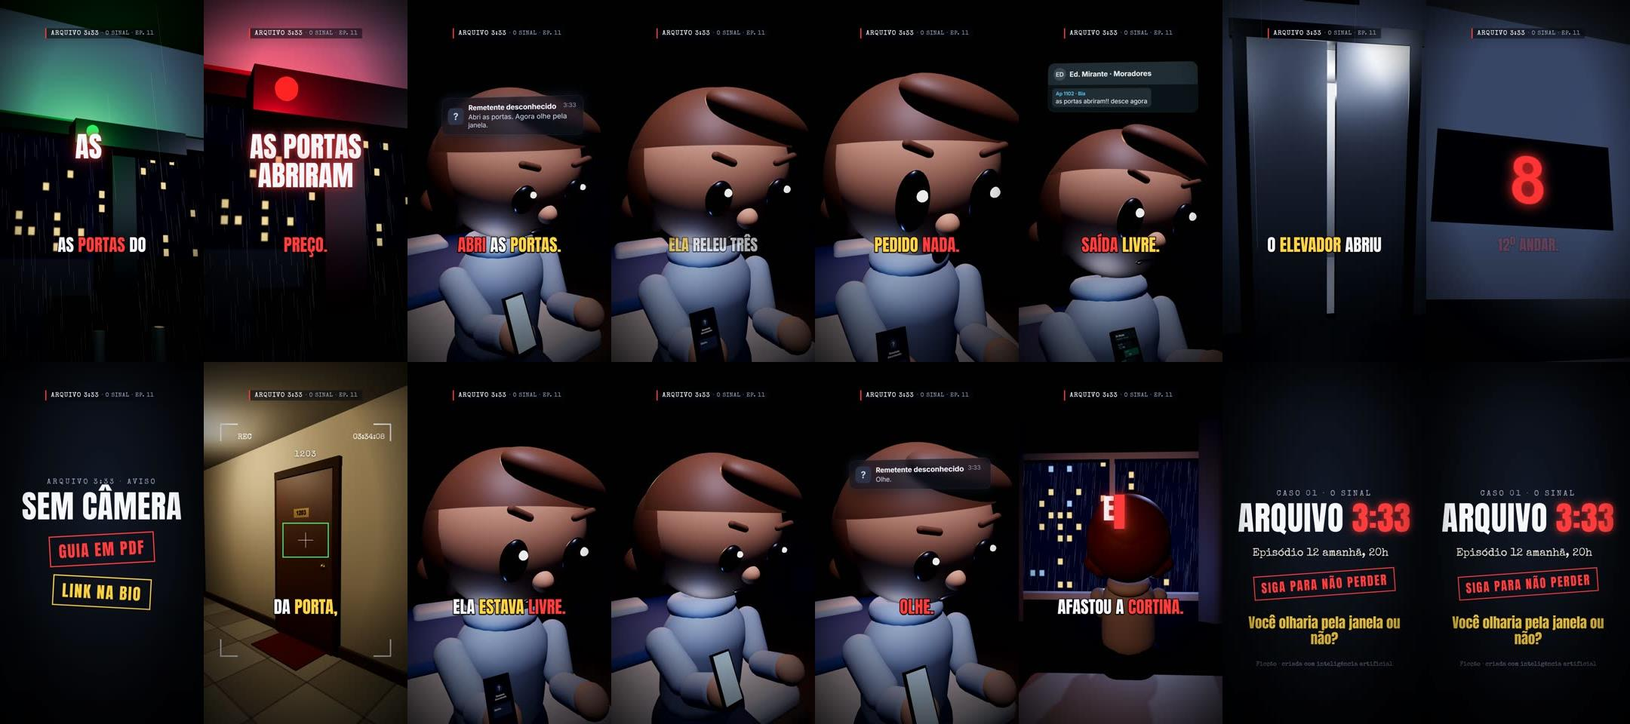
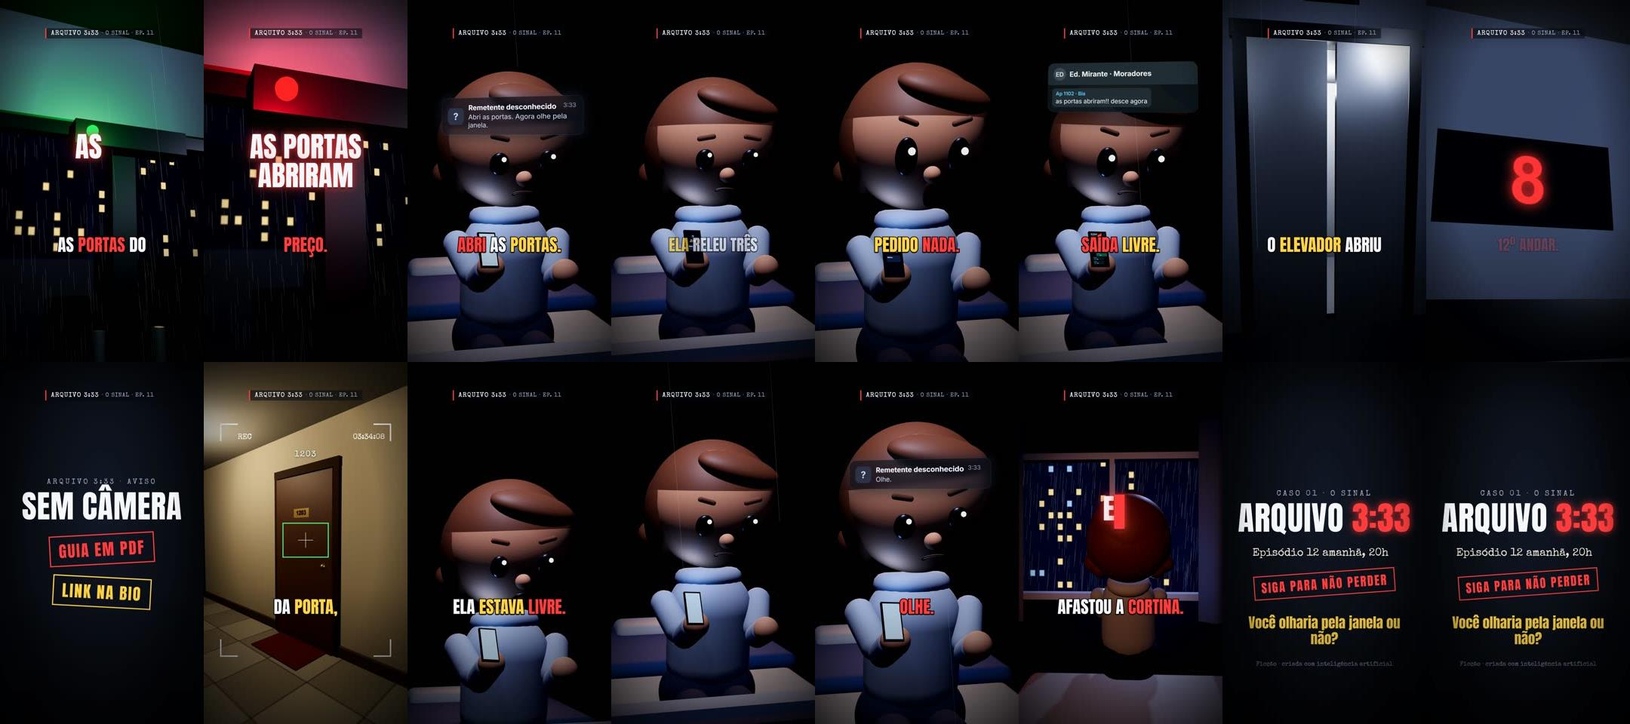
Arquivo 3:33: ep. 11 com closes de meio corpo; piloto Proxima estacao v3 (mais escuro, estacao detalhada, gente palida, som de metro)

Changed region(s): [[0.2481, 0.0625, 0.7755, 0.5], [0.2481, 0.5625, 0.6204, 1.0]]

diff --git a/arquivo-333/src/motor3d/pilotos.ts b/arquivo-333/src/motor3d/pilotos.ts
@@ -29,15 +29,16 @@ const cromo = () => mat("#c4c9d0", { metalness: 0.9, roughness: 0.25 });
 // ================================================================ vagão de metrô
 export class Vagao {
   cena: any; lia: Boneco; segmentos: any[] = []; luzes: any[] = []; argolas: any[] = [];
-  lampadasExt: { m: any; z0: number; lado: number }[] = []; tunelDireito: any; plat: any; postes: any[] = []; gente: { b: Boneco; x0: number }[] = [];
+  lampadasExt: { m: any; z0: number; lado: number }[] = []; tunelDireito: any; plat: any; postes: any[] = []; gente: { b: Boneco; x0: number; k: number; tilt: number }[] = [];
+  estPass: { g: any; c: HTMLCanvasElement; placa: any }[] = []; estNum = 0; luzPlat2: any; tubosPlat: { m: any; k: number }[] = [];
   telaPainel: HTMLCanvasElement; texPainel: any; telaMapa: HTMLCanvasElement; texMapa: any;
   portas: any[] = []; fundoPorta: any; luzPorta: any; luzPlat: any;
   static W = 2.7; static L = 12; static H = 2.35;
 
   constructor() {
-    const cena = new THREE.Scene(); this.cena = cena; cena.background = new THREE.Color("#030508");
+    const cena = new THREE.Scene(); this.cena = cena; cena.background = new THREE.Color("#030508"); cena.fog = new THREE.FogExp2("#04070a", 0.014);
     const { W, L, H } = Vagao;
-    cena.add(new THREE.HemisphereLight("#9fb4cc", "#1c2028", 0.55));
+    cena.add(new THREE.HemisphereLight("#7f93ad", "#14171c", 0.2));
     const piso = caixa(W, 0.06, L, mat("#2f333b", { roughness: 0.5 })); piso.position.y = -0.03; cena.add(piso);
     for (const x of [-0.62, 0.62]) { const f = caixa(0.05, 0.01, L, mat("#d9b53a")); f.position.set(x, 0.005, 0); cena.add(f); }
     const teto = caixa(W, 0.08, L, mat("#d4d8dd")); teto.position.y = H; cena.add(teto);
@@ -45,10 +46,10 @@ export class Vagao {
     for (let k = 0; k < 5; k++) {
       const z = -4.8 + k * 2.4;
       for (const x of [-0.45, 0.45]) {
-        const m = new THREE.MeshBasicMaterial({ color: "#e8f3ff", toneMapped: false });
+        const m = new THREE.MeshBasicMaterial({ color: "#aebdd0", toneMapped: false });
         const l = new THREE.Mesh(new THREE.BoxGeometry(0.16, 0.03, 1.7), m); l.position.set(x, H - 0.05, z); cena.add(l); this.segmentos.push({ m, k });
       }
-      const p = new THREE.PointLight("#cfe6ff", 2.6, 6, 1.4); p.position.set(0, H - 0.3, z); cena.add(p); this.luzes.push(p);
+      const p = new THREE.PointLight("#bcd4ee", 1.5, 6, 1.4); p.position.set(0, H - 0.3, z); cena.add(p); this.luzes.push(p);
     }
     // paredes: base, faixa de cima e pilares entre as janelas (os vãos mostram a plataforma ou o túnel)
     const parede = mat("#aeb4bb"), banco = mat("#52627a"), baseBanco = mat("#1b1f27");
@@ -90,31 +91,73 @@ export class Vagao {
       const m = new THREE.Mesh(new THREE.BoxGeometry(0.1, 0.1, 0.55), new THREE.MeshBasicMaterial({ color: "#ffe9b0", toneMapped: false }));
       m.position.set(lado * (W / 2 + 2.4), 2.0, 0); cena.add(m); this.lampadasExt.push({ m, z0: -7 + k * 1.4 + (lado > 0 ? 0.5 : 0), lado });
     }
+    this.estPass = [-1, 1].map((lado) => {
+      const g = new THREE.Group(), c = tela(512, 200);
+      const luz = new THREE.Mesh(new THREE.BoxGeometry(0.1, 1.7, 9), new THREE.MeshBasicMaterial({ color: "#e6f6ff", toneMapped: false })); luz.position.set(lado * (W / 2 + 2.2), 1.0, 0); g.add(luz);
+      const placa = new THREE.Mesh(new THREE.PlaneGeometry(1.5, 0.59), emissivo(textura(c))); placa.position.set(lado * (W / 2 + 2.05), 2.0, 0); placa.rotation.y = lado > 0 ? -Math.PI / 2 : Math.PI / 2; g.add(placa);
+      g.visible = false; cena.add(g); return { g, c, placa };
+    });
     this.plat = new THREE.Group(); cena.add(this.plat);
     const px = W / 2;
-    const chao = caixa(3.0, 0.5, 44, mat("#8d8f94")); chao.position.set(px + 1.8, -0.26, 0); this.plat.add(chao);
-    const borda = caixa(0.08, 0.01, 44, mat("#e6c23a")); borda.position.set(px + 0.38, 0.005, 0); this.plat.add(borda);
-    const azulejo = caixa(0.1, 3.4, 44, mat("#e6e9ee", { roughness: 0.4 })); azulejo.position.set(px + 3.4, 1.6, 0); this.plat.add(azulejo);
-    this.luzPlat = new THREE.PointLight("#e9f6ff", 9, 9, 1.3); this.luzPlat.position.set(px + 1.6, 2.4, 0); this.plat.add(this.luzPlat);
-    for (const z of [-4.2, 0.2, 4.4]) {
-      const c = tela(512, 200), g = c.getContext("2d")!; g.fillStyle = "#4a5058"; g.fillRect(0, 0, 512, 200);
-      g.fillStyle = "#fff"; g.font = "bold 38px Arial"; g.textAlign = "center"; g.fillText("ESTAÇÃO", 256, 50); g.font = "bold 130px Arial"; g.fillText("13", 256, 168);
-      const s = new THREE.Mesh(new THREE.PlaneGeometry(1.5, 0.59), emissivo(textura(c))); s.position.set(px + 3.33, 2.2, z); s.rotation.y = -Math.PI / 2; this.plat.add(s);
+    const chao = caixa(3.0, 0.5, 44, mat("#4d5054")); chao.position.set(px + 1.8, -0.26, 0); this.plat.add(chao);
+    const borda = caixa(0.14, 0.012, 44, mat("#b9961f")); borda.position.set(px + 0.42, 0.006, 0); this.plat.add(borda);
+    for (let k = 0; k < 40; k++) { const t = caixa(0.14, 0.01, 0.6, mat("#7a6216")); t.position.set(px + 0.42, 0.012, -21 + k * 1.1); this.plat.add(t); }
+    const azulejo = caixa(0.1, 3.4, 44, new THREE.MeshStandardMaterial({ map: this.texturaAzulejo(), roughness: 0.55 })); azulejo.position.set(px + 3.4, 1.6, 0); this.plat.add(azulejo);
+    const tetoP = caixa(3.6, 0.1, 44, mat("#101214")); tetoP.position.set(px + 1.8, 3.25, 0); this.plat.add(tetoP);
+    this.luzPlat = new THREE.PointLight("#a8e8c8", 9, 11, 1.3); this.luzPlat.position.set(px + 1.6, 2.6, 0.5); this.plat.add(this.luzPlat);
+    this.luzPlat2 = new THREE.PointLight("#ff2a2a", 2.2, 7, 1.6); this.luzPlat2.position.set(px + 2.6, 1.2, -4.5); this.plat.add(this.luzPlat2);
+    for (let k = 0; k < 6; k++) { const m = new THREE.MeshBasicMaterial({ color: "#bfe9d6", toneMapped: false }); const t = new THREE.Mesh(new THREE.BoxGeometry(0.12, 0.05, 1.5), m); t.position.set(px + 1.8, 3.15, -9 + k * 3.6); this.plat.add(t); this.tubosPlat.push({ m, k }); }
+    // colunas, bancos, relógio parado em 3:33, cartazes e as placas vermelhas da estação 13
+    for (const z of [-7.5, -2.4, 3.2, 8]) { const c = caixa(0.42, 3.2, 0.42, mat("#2f3438")); c.position.set(px + 2.55, 1.6, z); this.plat.add(c); }
+    for (const z of [-5, 5.6]) {
+      const bk = caixa(0.5, 0.07, 1.7, mat("#2b2d30")); bk.position.set(px + 3.05, 0.45, z); this.plat.add(bk);
+      for (const dz of [-0.7, 0.7]) { const pe = caixa(0.4, 0.4, 0.08, mat("#1b1c1e")); pe.position.set(px + 3.05, 0.2, z + dz); this.plat.add(pe); }
     }
-    const elenco = ["bia", "rafa", "alvaro", "cida", "marina", "caio", "locutor", "bia", "rafa", "alvaro"];
-    elenco.forEach((nome, k) => {
-      const b = new Boneco(APARENCIAS[nome]), x0 = px + 1.0 + (k % 3) * 0.5, z = -4.6 + k * 1.0 + (k % 2 ? 0.2 : -0.1);
-      b.raiz.position.set(x0, 0, z); b.raiz.rotation.set(0, -Math.PI / 2, 0);
-      b.posar({ ...POSES.em_pe(k), olhos: 1.25, sobrancelha: [0.6, 0, -0.5][k % 3], boca: "neutra", cabeca: [0, 0, 0] });
-      this.plat.add(b.raiz); this.gente.push({ b, x0 });
+    const rc = tela(256, 256), gr = rc.getContext("2d")!; gr.fillStyle = "#e9e6dd"; gr.beginPath(); gr.arc(128, 128, 124, 0, Math.PI * 2); gr.fill(); gr.strokeStyle = "#111"; gr.lineWidth = 8; gr.stroke();
+    for (let k = 0; k < 12; k++) { const a = (k / 12) * Math.PI * 2; gr.beginPath(); gr.moveTo(128 + Math.sin(a) * 104, 128 - Math.cos(a) * 104); gr.lineTo(128 + Math.sin(a) * 118, 128 - Math.cos(a) * 118); gr.lineWidth = 5; gr.stroke(); }
+    gr.lineCap = "round"; gr.lineWidth = 9; gr.beginPath(); gr.moveTo(128, 128); gr.lineTo(128 + Math.sin(Math.PI * 1.55) * 60, 128 - Math.cos(Math.PI * 1.55) * 60); gr.stroke(); // hora (perto do 3)
+    gr.lineWidth = 6; gr.beginPath(); gr.moveTo(128, 128); gr.lineTo(128 + Math.sin(Math.PI * 1.1) * 92, 128 - Math.cos(Math.PI * 1.1) * 92); gr.stroke();
+    const relogio = new THREE.Mesh(new THREE.CircleGeometry(0.34, 40), emissivo(textura(rc))); relogio.position.set(px + 2.33, 2.4, -2.4); relogio.rotation.y = -Math.PI / 2; this.plat.add(relogio);
+    ["NÃO DESÇA", "ELES ESPERAM", "VOCÊ JÁ ESTEVE AQUI"].forEach((txt, k) => {
+      const c = tela(256, 400), g = c.getContext("2d")!; g.fillStyle = "#17110f"; g.fillRect(0, 0, 256, 400);
+      g.fillStyle = "#2a1c18"; g.beginPath(); g.ellipse(128, 130, 46, 56, 0, 0, Math.PI * 2); g.fill(); g.fillRect(70, 180, 116, 120);
+      g.fillStyle = "#b8281e"; g.font = "bold 34px Arial"; g.textAlign = "center"; txt.split(" ").forEach((w, i, a) => g.fillText(w, 128, 330 + (i - (a.length - 1) / 2) * 40));
+      const p = new THREE.Mesh(new THREE.PlaneGeometry(0.8, 1.25), emissivo(textura(c))); p.position.set(px + 3.33, 1.5, [-6.2, -0.9, 4.4][k]); p.rotation.y = -Math.PI / 2; this.plat.add(p);
+    });
+    for (const z of [-4.2, 0.2, 4.4]) {
+      const c = tela(512, 200), g = c.getContext("2d")!; g.fillStyle = "#1a0c0c"; g.fillRect(0, 0, 512, 200);
+      g.fillStyle = "#ff4a3a"; g.shadowColor = "#ff3b2b"; g.shadowBlur = 30; g.textAlign = "center"; g.font = "bold 38px Arial"; g.fillText("ESTAÇÃO", 256, 50); g.font = "bold 130px Arial"; g.fillText("13", 256, 168);
+      const sg = new THREE.Mesh(new THREE.PlaneGeometry(1.5, 0.59), emissivo(textura(c))); sg.position.set(px + 3.33, 2.2, z); sg.rotation.y = -Math.PI / 2; this.plat.add(sg);
+    }
+    // a gente da plataforma: pálida, parada, olhando o trem, cabeça torta; alguns sorriem demais, um é alto demais
+    const pal = (pele: string, roupa: string, cabelo: string, extra: Record<string, unknown> = {}) => ({ pele, cabelo, roupa, calca: "#16181c", tenis: "#0e0e10", penteado: "curto" as const, capuz: false, ...extra });
+    const elenco = [pal("#c4cbd0", "#2c3138", "#15110e"), pal("#adb5ba", "#3a2f33", "#0f0f10", { penteado: "chanel" }), pal("#d1d6da", "#26303a", "#2a2a2a", { oculos: true }), pal("#b5bcc1", "#33392f", "#1a1411", { penteado: "coque" }), pal("#c9cfd3", "#40343a", "#0d0d0d"),
+      pal("#a9b1b6", "#2a2f35", "#2f2f2f", { altura: 1.38 }), pal("#bfc6ca", "#352c30", "#111111", { penteado: "chanel" }), pal("#cdd2d6", "#2d3338", "#1b1b1b", { oculos: true }), pal("#b0b8bd", "#38343a", "#0e0e0e"), pal("#c1c8cc", "#2b3036", "#141010", { penteado: "coque" })];
+    elenco.forEach((ap, k) => {
+      const bn = new Boneco(ap as any), x0 = px + 0.95 + (k % 3) * 0.55, z = -4.6 + k * 1.0 + (k % 2 ? 0.2 : -0.1), tilt = (k % 2 ? 1 : -1) * (5 + (k % 4) * 3);
+      bn.raiz.position.set(x0, 0, z); bn.raiz.rotation.set(0, -Math.PI / 2, 0);
+      bn.posar({ ...POSES.em_pe(k), olhos: 1.5, sobrancelha: [-0.3, 0.8, -0.7][k % 3], boca: k % 3 === 0 ? "sorriso" : "neutra", cabeca: [0, 0, tilt] });
+      this.plat.add(bn.raiz); this.gente.push({ b: bn, x0, k, tilt });
     });
     this.lia = new Boneco(APARENCIAS.lia); cena.add(this.lia.raiz);
     this.padrao();
   }
 
+  private texturaAzulejo() {
+    const c = tela(256, 512), g = c.getContext("2d")!, r = sorteio(21);
+    g.fillStyle = "#46544f"; g.fillRect(0, 0, 256, 512);
+    for (let y = 0; y < 16; y++) for (let x = 0; x < 8; x++) { const v = 78 + Math.floor(r() * 26); g.fillStyle = `rgb(${v - 10},${v + 8},${v})`; g.fillRect(x * 32 + 1, y * 32 + 1, 30, 30); }
+    for (let k = 0; k < 40; k++) { g.fillStyle = `rgba(10,8,6,${0.08 + r() * 0.2})`; g.fillRect(r() * 256, r() * 300, 4 + r() * 10, 40 + r() * 200); }
+    g.fillStyle = "rgba(90,20,16,0.5)"; for (let k = 0; k < 6; k++) { g.fillRect(40 + r() * 170, 100 + r() * 200, 3, 30 + r() * 90); }
+    const t = new THREE.CanvasTexture(c); t.colorSpace = THREE.SRGBColorSpace; t.wrapS = t.wrapT = THREE.RepeatWrapping; t.repeat.set(10, 2); return t;
+  }
+  private desenhaEst(c: HTMLCanvasElement, placa: any, n: number) {
+    const g = c.getContext("2d")!; g.fillStyle = "#3a4048"; g.fillRect(0, 0, 512, 200); g.fillStyle = "#fff"; g.textAlign = "center"; g.font = "bold 36px Arial"; g.fillText("ESTAÇÃO", 256, 48); g.font = "bold 130px Arial"; g.fillText(String(n), 256, 168);
+    placa.material.map.needsUpdate = true;
+  }
   painelTexto(linha1: string, linha2: string, cor = "#ffb000") {
     const g = this.telaPainel.getContext("2d")!;
-    g.fillStyle = "#120a02"; g.fillRect(0, 0, 512, 128);
+    g.fillStyle = "#120a02"; g.fillRect(0, 0, 512, 128); g.strokeStyle = cor + "99"; g.lineWidth = 4; g.strokeRect(5, 5, 502, 118);
     g.textAlign = "center"; g.textBaseline = "middle"; g.fillStyle = cor; g.shadowColor = cor; g.shadowBlur = 14;
     g.font = "bold 34px 'Courier New', monospace"; g.fillText(linha1, 256, 28);
     g.font = "bold 78px 'Courier New', monospace"; g.fillText(linha2, 256, 86);
@@ -143,7 +186,10 @@ export class Vagao {
   /** A gente da plataforma dá um passo em direção ao trem (p de 0 a 1). */
   passo(p: number) { for (const { b, x0 } of this.gente) b.raiz.position.x = x0 - 0.45 * p; }
   /** `offset`: quanto o trem andou (metros); `plat`: 0 = túnel, 1 = parado na plataforma. */
-  mover(offset: number, plat: number) {
+  mover(offset: number, plat: number, est = 0) {
+    const ativa = est > 0 && plat <= 0.001;
+    for (const e of this.estPass) { e.g.visible = ativa; if (ativa) { e.g.position.z = offset - 25; if (this.estNum !== est) this.desenhaEst(e.c, e.placa, est); } }
+    if (ativa) this.estNum = est;
     for (const { m, z0, lado } of this.lampadasExt) {
       m.position.z = (((z0 - offset) % 14) + 14) % 14 - 7;
       m.visible = !(lado > 0 && plat > 0.001);
@@ -157,12 +203,16 @@ export class Vagao {
   }
   /** Luzes do teto: `queda` 0 normal, 1 apagadas; o pisca é uma função do tempo. */
   atualizar(t: number, pisca = 0.5) {
-    const baixo = Math.sin(t * 23) > 0.55 && Math.sin(t * 3.1 + 1) > 1 - 2 * pisca;
+    const baixo = Math.sin(t * 23) > 0.3 && Math.sin(t * 3.1 + 1) > 1 - 2 * pisca;
     for (let k = 0; k < 5; k++) {
-      const apaga = (k === 2 && baixo) || (k === 3 && Math.sin(t * 17 + 2) > 0.8 && pisca > 0.3);
-      this.luzes[k].intensity = apaga ? 0.2 : 2.6;
-      for (const s of this.segmentos.filter((x) => x.k === k)) s.m.color.set(apaga ? "#3a3f48" : "#e8f3ff");
+      const apaga = (k === 2 && baixo) || (k === 3 && Math.sin(t * 17 + 2) > 0.7 && pisca > 0.3) || (k === 1 && Math.sin(t * 13 + 4) > 0.88);
+      this.luzes[k].intensity = apaga ? 0.08 : 1.5;
+      for (const s of this.segmentos.filter((x) => x.k === k)) s.m.color.set(apaga ? "#3a3f48" : "#aebdd0");
     }
+    for (const g of this.gente) { g.b.raiz.rotation.y = -Math.PI / 2 + Math.sin(t * 0.6 + g.k) * 0.06; g.b.cabeca.rotation.z = ((g.tilt + Math.sin(t * 0.8 + g.k * 1.7) * 3) * Math.PI) / 180; }
+    const piscaP = Math.sin(t * 19 + 1) > 0.6 && Math.sin(t * 2.3) > 0.2;
+    this.luzPlat.intensity = piscaP ? 2 : 9;
+    for (const x of this.tubosPlat) x.m.color.set(x.k === 2 && piscaP ? "#26302c" : "#bfe9d6");
     this.argolas.forEach((g, i) => { g.rotation.z = Math.sin(t * 1.6 + i) * 0.04; g.rotation.x = Math.sin(t * 1.2 + i * 0.7) * 0.03; });
   }
   padrao() {
@@ -389,18 +439,18 @@ export const PLANOS_PILOTOS: Record<string, Plano> = {
   // ---------------- piloto 1: Próxima estação
   vagao_plataforma: (s, dur, m) => {
     const p = suave(s / dur), v = m.vagao;
-    v.mover(0, 1); v.limpa(false); v.passo(0); v.painelTexto("ESTAÇÃO", "13", "#ff3b3b"); v.atualizar(s, 0.5);
-    return { cena: "vagao", pos: mix([-0.9, 1.3, 0.0], [-0.5, 1.3, 0.3], p), alvo: [2.8, 1.55, 0.4], fov: 56 };
+    v.mover(0, 1); v.limpa(true); v.passo(0); v.painelTexto("ESTAÇÃO", "13", "#ff3b3b"); v.atualizar(s, 0.5);
+    return { cena: "vagao", pos: mix([-1.05, 1.25, 1.0], [-0.8, 1.3, 1.0], p), alvo: [2.8, 1.45, 0.9], fov: 74, rolar: 0.05 - 0.03 * p };
   },
   vagao_lia: (s, dur, m) => {
     const p = suave(s / dur), v = m.vagao;
     liaSenta(m, LIA_BANCO(s, { cabeca: [20 - 20 * p, 10 - 10 * p, 5 - 5 * p], olhos: 0.25 + 0.6 * p, sobrancelha: -0.7 * p, boca: "neutra" }));
-    v.mover(ANDA(s) * 2.2, 0); v.limpa(false); v.atualizar(s, 0.5);
+    v.mover(ANDA(s) * 2.2, 0, 11); v.limpa(true); v.atualizar(s, 0.5);
     const c = cab(v.lia);
     return { cena: "vagao", pos: mix([c[0] + 1.4, c[1] + 0.1, c[2] + 2.6], [c[0] + 1.2, c[1] + 0.05, c[2] + 2.25], p), alvo: [c[0] - 0.05, c[1] - 0.15, c[2]], fov: 38 };
   },
   vagao_painel: (s, dur, m) => {
-    const v = m.vagao; v.mover(ANDA(s) * 2.2, 0); v.limpa(false);
+    const v = m.vagao; v.mover(ANDA(s) * 2.2, 0, 12); v.limpa(false);
     v.painelTexto("PRÓXIMA ESTAÇÃO", s > dur * 0.35 ? "13" : "12", s > dur * 0.35 ? "#ff3b3b" : "#ffb000"); v.atualizar(s, 0.8);
     return { cena: "vagao", pos: mix([0.6, 1.75, -3.9], [0.62, 1.85, -4.3], suave(s / dur)), alvo: [0.62, 2.05, -6], fov: 58 };
   },
@@ -412,26 +462,26 @@ export const PLANOS_PILOTOS: Record<string, Plano> = {
   vagao_lia_choro: (s, dur, m) => {
     const p = suave(s / dur), v = m.vagao;
     liaSenta(m, LIA_BANCO(s, { cabeca: [24 + 4 * p, -6, -3], olhos: 0.75, sobrancelha: 1, boca: "triste" }));
-    v.mover(ANDA(s) * 2.2, 0); v.limpa(false); v.atualizar(s, 0.6);
+    v.mover(ANDA(s) * 2.2, 0); v.limpa(true); v.atualizar(s, 0.6);
     const c = cab(v.lia);
     return { cena: "vagao", pos: mix([c[0] + 1.5, c[1] + 0.1, c[2] + 2.5], [c[0] + 1.3, c[1] + 0.05, c[2] + 2.2], p), alvo: [c[0] - 0.05, c[1] - 0.2, c[2]], fov: 38 };
   },
   vagao_janela: (s, dur, m) => {
     const p = suave(s / dur), v = m.vagao;
-    v.mover(0, 1); v.limpa(false); v.passo(0); v.painelTexto("ESTAÇÃO", "13", "#ff3b3b"); v.atualizar(s, 0.9);
-    return { cena: "vagao", pos: mix([-0.3, 1.45, 0.2], [0.2, 1.5, 0.45], p), alvo: [2.9, 1.5, 0.9], fov: 40 };
+    v.mover(0, 1); v.limpa(true); v.passo(0); v.painelTexto("ESTAÇÃO", "13", "#ff3b3b"); v.atualizar(s, 0.9);
+    return { cena: "vagao", pos: mix([-0.2, 1.05, 1.0], [0.25, 1.15, 1.0], p), alvo: [2.9, 1.65, 1.1], fov: 42, rolar: -0.04 };
   },
   vagao_porta: (s, dur, m) => {
     const p = suave(s / (dur * 0.7)), v = m.vagao, l = v.lia;
     l.raiz.visible = true; l.raiz.position.set(0, 0, -1.2); l.raiz.rotation.set(0, Math.PI, 0); l.posar({ ...POSES.em_pe(s), cabeca: [0, 0, 0] });
-    v.mover(0, 1); v.limpa(false); v.porta(p); v.passo(suave(s / dur)); v.painelTexto("PORTAS ABERTAS", "13", "#ff3b3b"); v.atualizar(s, 0.9);
+    v.mover(0, 1); v.limpa(true); v.porta(p); v.passo(suave(s / dur)); v.painelTexto("PORTAS ABERTAS", "13", "#ff3b3b"); v.atualizar(s, 0.9);
     return { cena: "vagao", pos: mix([0.3, 1.2, 3.8], [0.1, 1.25, 2.1], suave(s / dur)), alvo: [0, 1.1, -6], fov: 58 };
   },
   vagao_lia_det: (s, dur, m) => {
     const p = suave(s / dur), v = m.vagao, l = v.lia;
     l.raiz.visible = true; l.raiz.position.set(0, 0, -1.6); l.raiz.rotation.set(0, Math.PI, 0);
     l.posar({ ...POSES.em_pe(s), olhos: 1.0, sobrancelha: -1, boca: "neutra", cabeca: [-6, 0, 0] });
-    v.mover(0, 1); v.limpa(false); v.porta(1); v.passo(1); v.atualizar(s, 0.9);
+    v.mover(0, 1); v.limpa(true); v.porta(1); v.passo(1); v.atualizar(s, 0.9);
     return { cena: "vagao", pos: mix([0.0, 1.25, -4.4], [0.0, 1.2, -3.9], p), alvo: [0, 1.05, -1.6], fov: 40 };
   },
 

diff --git a/arquivo-333/src/motor3d/planos.ts b/arquivo-333/src/motor3d/planos.ts
@@ -45,6 +45,12 @@ function marinaNoQuarto(m: Mundo, s: number, pose: keyof typeof POSES, extra: Re
 function cabeca(m: Mundo): V3 { const v = new THREE.Vector3(); m.quarto.marina.cabeca.getWorldPosition(v); return [v.x, v.y, v.z]; }
 /** Luz dos closes: o rosto sem estourar (menos lua e celular) e o cabelo aparecendo (mais recorte da porta), como no vídeo-modelo. Chamar depois do atualizar. */
 function luzClose(m: Mundo) { const q = m.quarto; q.luaLuz.intensity = 1.5; q.recorte.intensity = 14; q.luzCelular.intensity = 0.06; q.ceuLuz.intensity = 0.8; q.luzCabelo.intensity = 7; }
+/** Câmera de meio corpo, de três quartos (lado = 1 pela direita, -1 pela esquerda): cabeça inteira com folga e o tronco no quadro. */
+function camMeio(m: Mundo, p: number, lado = 1, baixo = 0): { pos: V3; alvo: V3 } {
+  // de fora da janela (3,5 m de distância), pelo vão de um dos lados da divisória: meio corpo de frente, cabeça inteira com folga
+  const c = cabeca(m);
+  return { pos: mix([0.95 * lado, c[1] + 0.02 - baixo, -4.5], [0.8 * lado, c[1] - baixo, -4.1], p), alvo: [0.2, c[1] - 0.18 + baixo * 0.7, c[2]] };
+}
 function desenhaGrupo() {
   const c = document.createElement("canvas"); c.width = 256; c.height = 512; const g = c.getContext("2d")!;
   g.fillStyle = "#0b141a"; g.fillRect(0, 0, 256, 512); g.fillStyle = "#1f2c34"; g.fillRect(0, 0, 256, 64);
@@ -169,7 +175,7 @@ export const PLANOS: Record<string, Plano> = {
     marinaNoQuarto(m, s, "sentada_celular", { olhos: 1.2, sobrancelha: 0.9, cabeca: [16, -4 * p, 0] }); telaCom(m, "grupo");
     m.quarto.atualizar(s); luzClose(m);
     m.quarto.luzCelular.intensity = 0.06 + 0.3 * Math.pow(Math.max(0, Math.sin(s * 11)), 8);
-    const c = cabeca(m); return { cena: "quarto", pos: mix([c[0] + 0.6, c[1] - 0.14, c[2] - 0.92], [c[0] + 0.5, c[1] - 0.12, c[2] - 0.88], p), alvo: [c[0], c[1] + 0.1, c[2]], fov: 74 };
+    return { cena: "quarto", ...camMeio(m, p), fov: 34 };
   },
   /** Ela fecha a cortina (vista de trás); o quarto escurece. */
   cortina_fecha: (s, dur, m) => {
@@ -354,7 +360,7 @@ export const PLANOS: Record<string, Plano> = {
     const p = suave(s / dur);
     marinaNoQuarto(m, s, "sentada_celular", { olhos: 0.9, sobrancelha: 0.8, cabeca: [16, 0, 8 * p] }); telaCom(m, "luz");
     m.quarto.atualizar(s); luzClose(m);
-    const c = cabeca(m); return { cena: "quarto", pos: mix([c[0] + 0.6, c[1] + 0.05, c[2] - 0.92], [c[0] + 0.48, c[1] + 0.05, c[2] - 0.88], p), alvo: [c[0], c[1] - 0.06, c[2]], fov: 72 };
+    return { cena: "quarto", ...camMeio(m, p), fov: 32 };
   },
   rosto_mensagem: (s, dur, m) => {
     const p = suave(s / dur);
@@ -387,8 +393,15 @@ export const PLANOS: Record<string, Plano> = {
   },
   rosto_medo: (s, dur, m) => {
     const p = suave(s / (dur * 0.6));
-    marinaNoQuarto(m, s, "sentada_celular", { olhos: 1 + 0.55 * p, sobrancelha: 1, boca: p > 0.5 ? "medo" : "neutra", cabeca: [12, 0, 0] }); telaCom(m, "nome");
+    marinaNoQuarto(m, s, "sentada_celular", { olhos: 0.85 + 0.5 * p, sobrancelha: p > 0.6 ? 1 : -0.5, boca: p > 0.85 ? "medo" : "neutra", cabeca: [12, 0, 0] }); telaCom(m, "nome");
     m.quarto.atualizar(s); luzClose(m);
-    const c = cabeca(m); return { cena: "quarto", pos: mix([c[0] + 0.42, c[1] + 0.05, c[2] - 0.92], [c[0] + 0.28, c[1] + 0.05, c[2] - 0.86], suave(s / dur)), alvo: [c[0], c[1] - 0.04, c[2]], fov: 72 };
+    return { cena: "quarto", ...camMeio(m, suave(s / dur)), fov: 32 };
+  },
+  /** Dúvida e tristeza contida (para variar a expressão), pela esquerda. */
+  rosto_duvida: (s, dur, m) => {
+    const p = suave(s / dur);
+    marinaNoQuarto(m, s, "sentada_celular", { olhos: 0.9, sobrancelha: 0.7, boca: "triste", cabeca: [20 + 4 * p, 0, 4] }); telaCom(m, "luz");
+    m.quarto.atualizar(s); luzClose(m);
+    return { cena: "quarto", ...camMeio(m, p, 1, 0.28), fov: 32 };
   },
 };

diff --git a/arquivo-333/src/motor3d/boneco.ts b/arquivo-333/src/motor3d/boneco.ts
@@ -17,7 +17,7 @@ export type Pose = {
   pernaE?: [number, number, number]; pernaD?: [number, number, number];
   joelhoE?: number; joelhoD?: number;
   olhos?: number;        // 1 = normal, 1.4 = arregalados, 0.2 = quase fechados
-  boca?: "neutra" | "aberta" | "medo" | "triste";
+  boca?: "neutra" | "aberta" | "medo" | "triste" | "sorriso";
   sobrancelha?: number;  // -1 brava, 0 neutra, 1 preocupada
   respira?: number;      // tempo, para o peito subir e descer
 };
@@ -140,9 +140,9 @@ export class Boneco {
     this.sobE.rotation.z = Math.PI / 2 + sb * 0.35; this.sobD.rotation.z = Math.PI / 2 - sb * 0.35;
     this.sobE.position.y = this.sobD.position.y = 0.13 + Math.max(0, sb) * 0.02 + (o > 1.1 ? 0.02 : 0);
     const b = p.boca ?? "neutra";
-    this.boca.visible = b === "neutra" || b === "triste";
-    this.boca.rotation.z = 0; this.boca.scale.set(1, b === "neutra" ? 0.25 : 1, 1);
-    this.boca.position.y = b === "triste" ? -0.15 : -0.12;
+    this.boca.visible = b === "neutra" || b === "triste" || b === "sorriso";
+    this.boca.rotation.z = b === "sorriso" ? Math.PI : 0; this.boca.scale.set(b === "sorriso" ? 1.7 : 1, b === "neutra" ? 0.25 : 1, 1);
+    this.boca.position.y = b === "triste" ? -0.15 : b === "sorriso" ? -0.1 : -0.12;
     this.bocaAberta.visible = b === "aberta" || b === "medo";
     this.bocaAberta.scale.set(b === "medo" ? 0.8 : 0.9, b === "medo" ? 1.6 : 1.1, 0.4);
     const r = p.respira ?? 0;

diff --git a/.claude/skills/hoje-sumiu/SKILL.md b/.claude/skills/hoje-sumiu/SKILL.md
@@ -46,7 +46,14 @@ Pasta `Documents\Origem Digital\4-midia\posts-automaticos\hoje-sumiu` (Remotion 
 - **Câmera:** um voo só, sem corte seco. A cada 2 a 4 s, algo muda. Em todo plano com personagem, a cabeça fica por volta de y = 750 px, acima da legenda.
 - **Cabeçalho fixo:** "DIA N" + "N COISAS SUMIRAM · SÓ 1 PESSOA LEMBRA".
 - **Legenda-adesivo:** até 3 palavras, palavra entra quando é dita, em y ≈ 1205 (fora da área dos botões das redes). Azul nas palavras fortes; a coisa que sumiu fica cinza depois da virada.
-- **Fim:** "O QUE SOME AMANHÃ?" com 3 comentários de exemplo (avisar que são exemplo), "Ficção criada com IA" e "COMENTA AQUI ⬇".
+- **Fim:** "O QUE SOME AMANHÃ?" com as 5 opções de voto legíveis (ver a seção "Voto com 5 opções" abaixo), "Ficção criada com IA" e "COMENTA AQUI ⬇".
+
+## Voto com 5 opções (pedido do Vito, 05/11/2026, vale do próximo vídeo)
+- **Pergunta final:** o narrador fala "Comente 1 para X, 2 para Y, 3 para Z, 4 para W ou 5 para K" e o cartão final mostra as 5 opções, legíveis, com número em destaque.
+- **Escolha as 5 opções antes de publicar.** Temas bem abrangentes, para o público se envolver: algo do cotidiano, da natureza, da tecnologia, da comida e da memória/afeto. Nada de governo, pessoa, marca, religião, doença ou criança (as mesmas regras de "Proibido").
+- **Contagem:** a opção mais comentada vence. Conte os comentários que escolhem cada número (não as curtidas do comentário). Se um número não pega, conte pela palavra-chave da opção. Comentário que vota em mais de uma opção não conta. Mostre a contagem ao Vito antes de produzir o dia seguinte.
+- **Aprovação antes de publicar:** mostre o vídeo pronto no chat do Vito e espere o "aprovado". Sem aprovação, não publica.
+- **Abertura:** o sumiço tem que aparecer nos primeiros 3 segundos. Vídeos mais curtos (o alvo continua 55 a 65 s, mas corte o que não ajuda a história).
 
 ## Voz (a primeira queixa do Vito foi aqui)
 - **Modelo:** `elevenlabs_v4`, voz Mark `27c04473-84a9-4b60-a41f-c8e8458bd4f1` (`voice_type: "preset"`), estabilidade 0.5, similaridade 0.75, um turno por fala, e `"velocidade": 1` no episódio: sem aceleração. O Vito escolheu essa voz em 01/11/2026 por ser natural e tranquila. A Gideon, do Dia 1, parecia demais com o Arquivo 3:33: não volte a usar.
@@ -62,8 +69,10 @@ Pasta `Documents\Origem Digital\4-midia\posts-automaticos\hoje-sumiu` (Remotion 
 ## Crédito de quem escolheu (pedido do Vito, 01/11/2026)
 Depois de "Do mundo inteiro. Para sempre.", um cartão mostra o @ de quem escreveu, o comentário e as curtidas, conferidas no dia. A voz diz que foi o mais curtido. Se houve veto, diga "o mais curtido que valia", porque outro comentário teve mais curtidas. O @ fica só na tela e na legenda, nunca na voz: nome de conta é pronúncia arriscada.
 
-## "Comente GUIA" (mudança aprovada pelo Vito em 04/11/2026, vale do Dia 5 em diante)
-A divulgação do meio do vídeo troca "link na bio" por **"Comente GUIA"**. Fala (menos de 4 s, Mark): "Feito sem câmera. Comente GUIA e eu te mando." Cartão (`divulgacao`): `titulo` "SEM CÂMERA", `sub` "COMENTE GUIA", sem `chamada` de link. Legenda e descrição: "Quer saber como é feito? Comente GUIA." e, como apoio, "link na bio" (o link fica no perfil). A pergunta final de voto continua em todos os vídeos e é a chamada principal: são duas chamadas diferentes, a de votar e a de comentar GUIA. O Dia 4 já está no ar com "link na bio" e não muda.
+## "Comente GUIA" (mudança aprovada pelo Vito em 04/11/2026; **AINDA NÃO USAR**, ver a trava de 05/11/2026)
+**Trava de 05/11/2026:** o aviso de comentários do Instagram estava desligado na Meta. O chat Origem Digital ligou e vai testar com o Vito. Até a mensagem "liberado" vir do chat Origem Digital: **nada de "Comente GUIA" e nada de "link na bio"** na fala, no cartão, na legenda nem na descrição. Não há divulgação do guia nos vídeos até lá, salvo se o Vito disser o contrário. Quando o aviso chegar, volte a esta seção.
+
+A divulgação do meio do vídeo troca "link na bio" por **"Comente GUIA"** (quando liberado). Fala (menos de 4 s, Mark): "Feito sem câmera. Comente GUIA e eu te mando." Cartão (`divulgacao`): `titulo` "SEM CÂMERA", `sub` "COMENTE GUIA", sem `chamada` de link. Legenda e descrição: "Quer saber como é feito? Comente GUIA." e, como apoio, "link na bio" (o link fica no perfil). A pergunta final de voto continua em todos os vídeos e é a chamada principal: são duas chamadas diferentes, a de votar e a de comentar GUIA. O Dia 4 já está no ar com "link na bio" e não muda.
 **Trava:** o chat Origem Digital está montando o fluxo que responde os comentários "GUIA" no Instagram (resposta pública e mensagem privada com o link da lista de espera). **Não publique nenhum vídeo com "Comente GUIA" antes de o chat Origem Digital avisar que o fluxo está ligado**, senão quem comentar fica sem resposta. Também não prometa nada a quem comentar até lá.
 
 ## Divulgação do guia "Sem Câmera" (pedido do Vito, 02/11/2026; o texto "link na bio" vale até o Dia 4)
@@ -82,7 +91,7 @@ Música em código (108 BPM, pizzicato) que se reduz a quase nada na virada estr
 4. **Cena:** o bloco `cena` no próprio `episodios/diaNN.json`, com as peças da biblioteca: leia `hoje-sumiu/PECAS.md` e copie de `episodios/exemplo-dados.json`. Não crie `DiaN.tsx` nem código novo por dia; se faltar uma peça, acrescente em `src/pecas/objetos.ts`. O que sumiu antes continua sumido: o vermelho já nasce cinza e o mural ganha uma nota "DIA N" sozinho. Dias 1 e 2 têm código próprio: não mexa. O Dia 3 provou a biblioteca de ponta a ponta (roteiro, voz, cena, render e kit). Se `render.mjs` der erro de rede ao carregar fonte, rode de novo.
 5. **Testar:** `EP=<id> ESCALA=0.33 node ferramentas/render.mjs Dia fotos 0.4 5 10 ...`, montar folha com `ferramentas/folha.ps1` e OLHAR antes do vídeo inteiro.
 6. **Render:** `EP=<id> CONC=4 node ferramentas/render.mjs Dia`, cerca de 2 min. Depois conferir quadros do vídeo pronto: teste com foto solta já escondeu defeito.
-7. **Revisar** com a lista abaixo. **Publicar** no Instagram e no YouTube, com o rótulo de IA ligado. **TikTok: nunca publique nem agende pelo computador.** O Vito notou que os vídeos enviados assim chegam a poucas pessoas e posta pelo celular. Para ele, rode `node ferramentas/kit-celular.mjs N` e diga onde está a pasta. Responder comentários nas primeiras horas.
+7. **Revisar** com a lista abaixo. **Aprovação:** mostrar o vídeo pronto ao Vito no chat dele e esperar o "aprovado" (vale até para o Dia 5). **Publicar** no YouTube e no Instagram, com o rótulo de IA ligado. **Instagram NÃO por robô:** publicar pelo Chrome do Vito, como o Arquivo 3:33 faz; o fluxo do n8n derruba o alcance e não é usado para o Hoje Sumiu. **TikTok: nunca publique nem agende pelo computador.** O Vito notou que os vídeos enviados assim chegam a poucas pessoas e posta pelo celular. Para ele, rode `node ferramentas/kit-celular.mjs N` e diga onde está a pasta. Responder comentários nas primeiras horas.
 
 ## Lista de revisão
 - O 1º quadro para o dedo?
